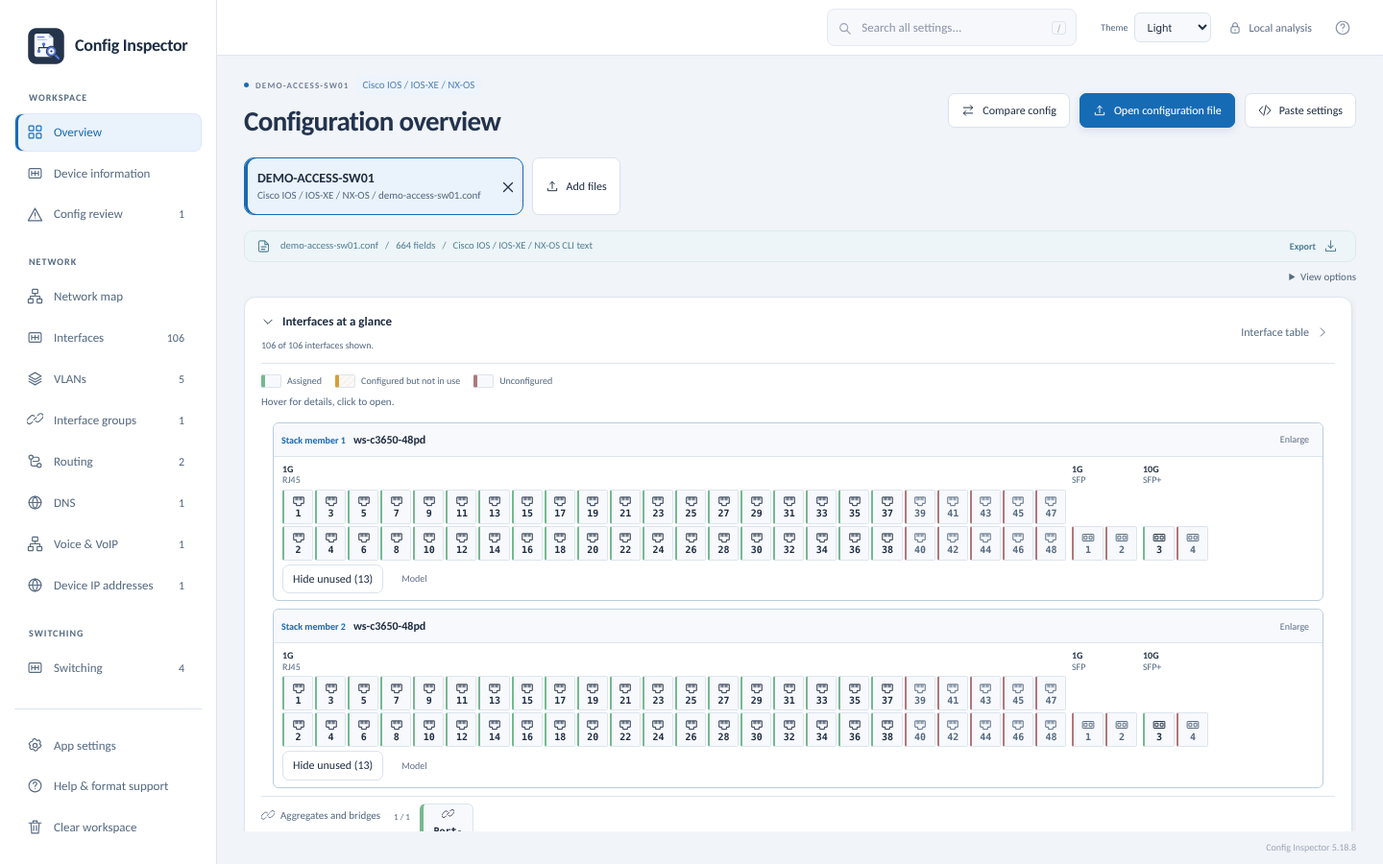
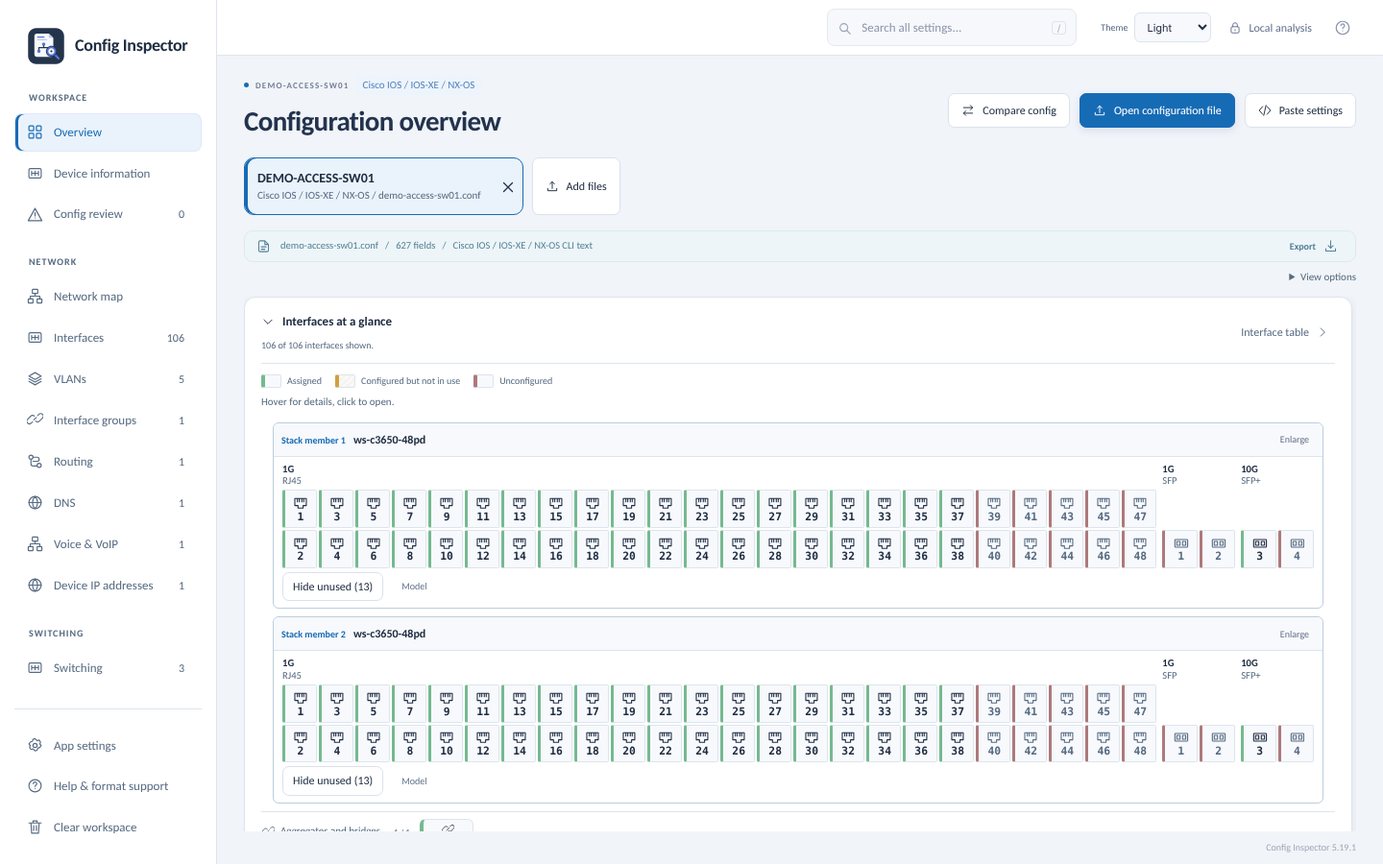
Release 5.19.1: interfaces at a glance fill their card (#5)
Port columns grow up to 56px so faceplates fill the card width; text, icons and heights scale with them. Small devices cap at 56px, narrow windows keep the compact fit, and Enlarge keeps its 34px minimum. Recaptured the README screenshot and recorded the owner's standing merge-and-release instruction in AGENTS.md.

Claude-Session: https://claude.ai/code/session_01AkZzWEYiyfNXNUuxhn3mpE

Changed region(s): [[0.1875, 0.5289, 0.9688, 0.9644]]

diff --git a/webview/index.html b/webview/index.html
@@ -807,10 +807,10 @@ body{font-size:14px}.brand-mark{background:linear-gradient(145deg,#287dc6,#15578
 .interface-glance .interface-badge .port-media-label{font-size:10px}
 .interface-glance .glance-port-name{display:block;width:100%;font-size:10px;font-weight:600;line-height:1.25;text-align:center;overflow-wrap:anywhere}
 </style>
-<style>.map-device-context .device-name{font-size:15px;font-weight:700;overflow-wrap:anywhere}.map-device-context .device-meta{display:flex;flex-direction:column;gap:1px;margin-top:7px;line-height:1.4;overflow-wrap:anywhere}.map-device-context .device-meta strong{font-size:11px;color:var(--ink);font-weight:600}.map-identity-label{font-size:9px;color:var(--muted)}.hardware-chassis{margin:8px 12px;border:1px solid var(--line-strong);border-radius:6px;background:var(--paper);min-width:0}.hardware-chassis-head{display:flex;align-items:center;justify-content:space-between;gap:10px;padding:5px 8px;background:var(--surface-soft);border-bottom:1px solid var(--line);border-radius:6px 6px 0 0}.hardware-chassis-head>div:first-child{display:flex;align-items:baseline;flex-wrap:wrap;gap:8px;min-width:0}.hardware-unit-label{font-size:10px;color:var(--accent);font-weight:600}.hardware-chassis-head h3{font-size:12px;margin:0;color:var(--ink);overflow-wrap:anywhere}.hardware-chassis-actions{display:flex;align-items:center;gap:8px;flex-shrink:0}.hardware-chassis-actions>span{font-size:10px;color:var(--muted)}.hardware-chassis-actions .quiet-button{font-size:10px;padding:3px 6px;min-height:24px}.hardware-chassis-modules{padding:7px 9px}.hardware-chassis-modules.has-module-slots{display:grid;grid-template-columns:repeat(2,minmax(0,1fr));gap:8px}.hardware-module{min-width:0}.has-module-slots .hardware-module,.hardware-rear-modules>.hardware-module{border:1px solid var(--line);border-radius:4px;padding:6px}.hardware-module-head{display:flex;justify-content:space-between;align-items:center;gap:6px;margin-bottom:5px}.hardware-module-head>div{display:flex;align-items:baseline;flex-wrap:wrap;gap:6px;min-width:0}.hardware-module-head strong{font-size:11px}.hardware-module-head span{font-size:10px;color:var(--muted);overflow-wrap:anywhere}.hardware-module-head .quiet-button{font-size:10px;padding:2px 5px;min-height:24px}.hardware-side-label{display:block;font-size:9px;text-transform:uppercase;letter-spacing:.4px;color:var(--muted);margin:2px 0 4px}.hardware-face-scroll{container-type:inline-size;max-width:100%;min-width:0}.hardware-face{display:grid;grid-auto-flow:column;grid-template-rows:auto auto;column-gap:6px;row-gap:0;width:100%;max-width:var(--face-natural-width);min-width:0;padding:0;--port-track:min(34px,calc((100cqw - var(--face-gap-space))/var(--face-columns)));--port-text:clamp(6px,calc(var(--port-track)*.34),10px);--port-icon:clamp(6px,calc(var(--port-track)*.46),14px);--port-height:clamp(22px,calc(var(--port-track)*1.12),36px)}.hardware-bank{min-width:0;display:grid;grid-template-rows:subgrid;grid-row:span 2}.hardware-bank-label{font-size:clamp(6px,calc(var(--port-track)*.3),10px);font-weight:600;display:block;min-height:24px;line-height:1.15;color:var(--ink);margin-bottom:3px;overflow-wrap:anywhere}.hardware-bank-label small{display:block;font-size:inherit;font-weight:400;color:var(--muted)}.hardware-bank-grid{display:grid;gap:2px;align-items:stretch}.hardware-port-cell{display:block;position:relative;min-width:0}.interface-glance .hardware-port-cell .interface-badge{width:100%;min-width:0;height:var(--port-height);min-height:0;border-left-width:clamp(1px,calc(var(--port-track)*.08),3px);padding:2px 0;gap:1px;margin:0;display:flex;flex-direction:column;justify-content:center;border-radius:2px}.hardware-port-cell .interface-badge .interface-kind-icon{margin:0;gap:0;min-width:0;min-height:0;line-height:1}.hardware-port-cell .interface-kind-icon .icon{width:var(--port-icon);height:var(--port-icon)}.hardware-port-cell .port-media-label{display:none}.hardware-port-cell .glance-port-name{font-size:var(--port-text);line-height:1;white-space:nowrap}.hardware-port-gap{height:var(--port-height);display:block;min-width:0}.interface-glance .hardware-stack-port .interface-badge{border:2px solid var(--accent);background:var(--accent-soft);gap:0}.hardware-stack-port .interface-kind-icon .icon{height:calc(var(--port-icon)*.8)}.hardware-stack-label{font-size:clamp(3px,calc(var(--port-track)*.25),8px);line-height:1;color:var(--accent);font-weight:600}.hardware-module-foot{display:flex;align-items:center;gap:7px;flex-wrap:wrap;margin-top:4px}.hardware-module-foot:empty{display:none}.hardware-module-foot .quiet-button{font-size:10px;min-height:23px;padding:2px 5px}.hardware-module-foot .unused-count{font-size:9px}.hardware-empty{font-size:11px;color:var(--muted);padding:4px 0;margin:0}.hardware-other-ports{margin-top:4px}.hardware-other-ports .interface-glance-badges{padding:0}.hardware-management{border-top:1px solid var(--line);padding:6px 9px}.hardware-management h4{font-size:10px;margin:0 0 4px}.hardware-side+.hardware-side{border-top:1px dashed var(--line);margin-top:5px;padding-top:4px}.hardware-rear-modules{display:flex;align-items:stretch;gap:7px;border-top:1px solid var(--line);padding:6px 9px}.hardware-rear-modules>.hardware-module{flex:0 1 190px;min-width:0}.hardware-rear-modules .hardware-bank-label{font-size:9px;min-height:22px}.hardware-stacking-summary{display:flex;flex-direction:column;justify-content:center;gap:4px;font-size:10px;color:var(--muted);padding:5px 8px}.hardware-stacking-summary strong{color:var(--accent);font-size:11px}.hardware-layout-note{font-size:10px;color:var(--muted);margin:5px 0 0;line-height:1.4}.hardware-chassis.is-enlarged .hardware-face-scroll{overflow:auto}.hardware-chassis.is-enlarged .hardware-face{min-width:var(--face-natural-width);--port-track:34px}.interface-stack-tag{font-size:9px;color:var(--accent);border:1px solid var(--accent);border-radius:3px;padding:1px 4px;white-space:nowrap;line-height:1.3}@media(max-width:1100px){.hardware-chassis-modules.has-module-slots{grid-template-columns:1fr}}@media(max-width:600px){.hardware-chassis{margin:7px 6px}.hardware-chassis-head{padding:6px}.hardware-chassis-modules{padding:6px}.hardware-rear-modules{padding:5px;flex-wrap:wrap}.hardware-rear-modules>.hardware-module{flex:1 1 110px}.hardware-chassis-actions>span{display:none}.hardware-bank-label{min-height:26px}.hardware-stacking-summary{flex-basis:100%}}
+<style>.map-device-context .device-name{font-size:15px;font-weight:700;overflow-wrap:anywhere}.map-device-context .device-meta{display:flex;flex-direction:column;gap:1px;margin-top:7px;line-height:1.4;overflow-wrap:anywhere}.map-device-context .device-meta strong{font-size:11px;color:var(--ink);font-weight:600}.map-identity-label{font-size:9px;color:var(--muted)}.hardware-chassis{margin:8px 12px;border:1px solid var(--line-strong);border-radius:6px;background:var(--paper);min-width:0}.hardware-chassis-head{display:flex;align-items:center;justify-content:space-between;gap:10px;padding:5px 8px;background:var(--surface-soft);border-bottom:1px solid var(--line);border-radius:6px 6px 0 0}.hardware-chassis-head>div:first-child{display:flex;align-items:baseline;flex-wrap:wrap;gap:8px;min-width:0}.hardware-unit-label{font-size:10px;color:var(--accent);font-weight:600}.hardware-chassis-head h3{font-size:12px;margin:0;color:var(--ink);overflow-wrap:anywhere}.hardware-chassis-actions{display:flex;align-items:center;gap:8px;flex-shrink:0}.hardware-chassis-actions>span{font-size:10px;color:var(--muted)}.hardware-chassis-actions .quiet-button{font-size:10px;padding:3px 6px;min-height:24px}.hardware-chassis-modules{padding:7px 9px}.hardware-chassis-modules.has-module-slots{display:grid;grid-template-columns:repeat(2,minmax(0,1fr));gap:8px}.hardware-module{min-width:0}.has-module-slots .hardware-module,.hardware-rear-modules>.hardware-module{border:1px solid var(--line);border-radius:4px;padding:6px}.hardware-module-head{display:flex;justify-content:space-between;align-items:center;gap:6px;margin-bottom:5px}.hardware-module-head>div{display:flex;align-items:baseline;flex-wrap:wrap;gap:6px;min-width:0}.hardware-module-head strong{font-size:11px}.hardware-module-head span{font-size:10px;color:var(--muted);overflow-wrap:anywhere}.hardware-module-head .quiet-button{font-size:10px;padding:2px 5px;min-height:24px}.hardware-side-label{display:block;font-size:9px;text-transform:uppercase;letter-spacing:.4px;color:var(--muted);margin:2px 0 4px}.hardware-face-scroll{container-type:inline-size;max-width:100%;min-width:0}.hardware-face{display:grid;grid-auto-flow:column;grid-template-rows:auto auto;column-gap:6px;row-gap:0;width:100%;max-width:calc(var(--face-columns)*56px + var(--face-gap-space));min-width:0;padding:0;--port-fit:calc((100cqw - var(--face-gap-space))/var(--face-columns));--port-track:min(56px,var(--port-fit));--port-text:clamp(6px,calc(var(--port-track)*.3),13px);--port-icon:clamp(6px,calc(var(--port-track)*.42),20px);--port-height:clamp(22px,calc(var(--port-track)*1.05),54px)}.hardware-bank{min-width:0;display:grid;grid-template-rows:subgrid;grid-row:span 2}.hardware-bank-label{font-size:clamp(6px,calc(var(--port-track)*.28),12px);font-weight:600;display:block;min-height:24px;line-height:1.15;color:var(--ink);margin-bottom:3px;overflow-wrap:anywhere}.hardware-bank-label small{display:block;font-size:inherit;font-weight:400;color:var(--muted)}.hardware-bank-grid{display:grid;gap:2px;align-items:stretch}.hardware-port-cell{display:block;position:relative;min-width:0}.interface-glance .hardware-port-cell .interface-badge{width:100%;min-width:0;height:var(--port-height);min-height:0;border-left-width:clamp(1px,calc(var(--port-track)*.08),3px);padding:2px 0;gap:1px;margin:0;display:flex;flex-direction:column;justify-content:center;border-radius:2px}.hardware-port-cell .interface-badge .interface-kind-icon{margin:0;gap:0;min-width:0;min-height:0;line-height:1}.hardware-port-cell .interface-kind-icon .icon{width:var(--port-icon);height:var(--port-icon)}.hardware-port-cell .port-media-label{display:none}.hardware-port-cell .glance-port-name{font-size:var(--port-text);line-height:1;white-space:nowrap}.hardware-port-gap{height:var(--port-height);display:block;min-width:0}.interface-glance .hardware-stack-port .interface-badge{border:2px solid var(--accent);background:var(--accent-soft);gap:0}.hardware-stack-port .interface-kind-icon .icon{height:calc(var(--port-icon)*.8)}.hardware-stack-label{font-size:clamp(3px,calc(var(--port-track)*.22),10px);line-height:1;color:var(--accent);font-weight:600}.hardware-module-foot{display:flex;align-items:center;gap:7px;flex-wrap:wrap;margin-top:4px}.hardware-module-foot:empty{display:none}.hardware-module-foot .quiet-button{font-size:10px;min-height:23px;padding:2px 5px}.hardware-module-foot .unused-count{font-size:9px}.hardware-empty{font-size:11px;color:var(--muted);padding:4px 0;margin:0}.hardware-other-ports{margin-top:4px}.hardware-other-ports .interface-glance-badges{padding:0}.hardware-management{border-top:1px solid var(--line);padding:6px 9px}.hardware-management h4{font-size:10px;margin:0 0 4px}.hardware-side+.hardware-side{border-top:1px dashed var(--line);margin-top:5px;padding-top:4px}.hardware-rear-modules{display:flex;align-items:stretch;gap:7px;border-top:1px solid var(--line);padding:6px 9px}.hardware-rear-modules>.hardware-module{flex:0 1 190px;min-width:0}.hardware-rear-modules .hardware-bank-label{font-size:9px;min-height:22px}.hardware-stacking-summary{display:flex;flex-direction:column;justify-content:center;gap:4px;font-size:10px;color:var(--muted);padding:5px 8px}.hardware-stacking-summary strong{color:var(--accent);font-size:11px}.hardware-layout-note{font-size:10px;color:var(--muted);margin:5px 0 0;line-height:1.4}.hardware-chassis.is-enlarged .hardware-face-scroll{overflow:auto}.hardware-chassis.is-enlarged .hardware-face{min-width:var(--face-natural-width);--port-track:max(34px,min(56px,var(--port-fit)))}.interface-stack-tag{font-size:9px;color:var(--accent);border:1px solid var(--accent);border-radius:3px;padding:1px 4px;white-space:nowrap;line-height:1.3}@media(max-width:1100px){.hardware-chassis-modules.has-module-slots{grid-template-columns:1fr}}@media(max-width:600px){.hardware-chassis{margin:7px 6px}.hardware-chassis-head{padding:6px}.hardware-chassis-modules{padding:6px}.hardware-rear-modules{padding:5px;flex-wrap:wrap}.hardware-rear-modules>.hardware-module{flex:1 1 110px}.hardware-chassis-actions>span{display:none}.hardware-bank-label{min-height:26px}.hardware-stacking-summary{flex-basis:100%}}
 </style>
 <style>.filter-category-panel{margin:18px 0}.filter-category-counts{display:flex;flex-wrap:wrap;gap:6px 12px;font-size:11px;color:var(--muted);margin:8px 0}.filter-category-counts strong{color:var(--ink);margin-left:3px}.filter-category-search{display:flex;flex-direction:column;gap:5px;font-size:11px;color:var(--muted);margin:12px 0}.filter-category-search input{width:100%;box-sizing:border-box;border:1px solid var(--line-strong);border-radius:4px;background:var(--paper);color:var(--ink);padding:9px 10px;font:inherit}.filter-category-table{width:100%;table-layout:fixed;border-collapse:collapse;font-size:11px;margin:8px 0}.filter-category-table th,.filter-category-table td{text-align:left;vertical-align:top;overflow-wrap:anywhere;padding:8px;border-bottom:1px solid var(--line)}.filter-category-table th{font-size:10px;color:var(--muted);font-weight:600;background:var(--surface-soft)}.filter-category-table th:first-child{width:44%}.filter-category-table td>div+div{margin-top:4px}.filter-category-id{display:block;font-size:9px;color:var(--muted);margin-top:4px}.filter-category-action{font-weight:600}.filter-category-action.restricted{color:var(--red)}.filter-category-action.permitted{color:var(--green)}.filter-category-panel [hidden]{display:none!important}.filter-category-allowed .technical-body{padding:0}.filter-category-table .table-link{text-align:left;white-space:normal}</style>
-<style id="mikrotik-port-labels">.hardware-inventory[data-hardware-vendor="mikrotik"] .port-media-label{display:inline;font-size:clamp(5px,calc(var(--port-track)*.23),8px);line-height:1}.hardware-inventory[data-hardware-vendor="mikrotik"] .interface-kind-icon{flex-direction:row;gap:2px}.hardware-inventory[data-hardware-vendor="mikrotik"] .glance-port-name{font-size:clamp(6px,calc(var(--port-track)*.3),10px)}</style>
+<style id="mikrotik-port-labels">.hardware-inventory[data-hardware-vendor="mikrotik"] .port-media-label{display:inline;font-size:clamp(5px,calc(var(--port-track)*.2),10px);line-height:1}.hardware-inventory[data-hardware-vendor="mikrotik"] .interface-kind-icon{flex-direction:row;gap:2px}.hardware-inventory[data-hardware-vendor="mikrotik"] .glance-port-name{font-size:clamp(6px,calc(var(--port-track)*.27),12px)}</style>
 <style id="configuration-review-styles">
 .review-summary{margin-bottom:14px}.review-summary-body{padding:0 18px 14px}.review-metrics{display:grid;grid-template-columns:repeat(4,minmax(0,1fr));gap:12px}.review-metrics>div{padding:12px;border:1px solid var(--line);border-radius:8px;background:var(--surface-soft)}.review-metrics strong{display:block;font-size:23px;line-height:1.3;color:var(--ink)}.review-metrics span{display:block;margin-top:5px;font-size:11px;color:var(--muted)}.review-summary .panel-head{flex-wrap:wrap;gap:12px}.review-summary .support-note{margin:12px 0 0}.findings-toolbar{align-items:end;margin:0 0 14px}.findings-toolbar .count-label{margin-left:0;white-space:normal}.finding-resolution{border:1px solid var(--line);border-left:3px solid var(--accent);border-radius:7px;padding:12px 16px;background:var(--surface-soft);margin:14px 0}.finding-resolution h3,.finding-targets h3{margin:0 0 8px;font-size:12px}.finding-resolution ol{margin:0;padding-left:21px;font-size:12px;line-height:1.7}.finding-resolution li+li{margin-top:6px}.finding-impact{font-size:12px}.finding-targets{margin:16px 0}.finding-targets .detail-actions{margin:0}.finding-targets button{white-space:normal;overflow-wrap:anywhere;text-align:left}.finding-locations{margin-top:10px;font-size:11px;color:var(--muted)}.finding-locations summary{cursor:pointer}.finding-locations li{overflow-wrap:anywhere;margin:5px 0}.finding-source-values{margin-top:10px}.finding-source-values dl{margin:10px 0}.finding-source-values dl>div{padding:8px 10px;border:1px solid var(--line);margin:6px 0;border-radius:6px}.finding-source-values dt{font-size:10px;color:var(--muted);overflow-wrap:anywhere}.finding-source-values dd{margin:5px 0 0;font-size:11px;white-space:pre-wrap;overflow-wrap:anywhere}.review-references{padding-left:20px}.review-references small,.findings-coverage td>small{display:block;color:var(--muted);font-size:10px;margin-top:4px}.review-references a{overflow-wrap:anywhere}.findings-coverage td{vertical-align:top}.findings-coverage table th{position:sticky;top:0;background:var(--surface);z-index:1}.review-export-options{display:flex;gap:10px;flex-wrap:wrap}.review-export-options .button{white-space:normal;text-align:left}.finding-detail .panel-head>div{min-width:0}.finding-detail .panel-title{overflow-wrap:anywhere}.findings-toolbar .select{max-width:100%}
 @media(max-width:980px){.review-metrics{grid-template-columns:repeat(2,minmax(0,1fr))}}@media(max-width:520px){.review-summary-body{padding:0 12px 12px}.review-metrics{gap:8px}.review-metrics>div{padding:9px}.review-metrics strong{font-size:19px}.findings-filter{max-width:100%}.finding-body{padding:0 12px 12px}.finding-resolution{padding:10px 12px}.findings-coverage .technical-body{overflow:auto}}
@@ -834,7 +834,7 @@ body{font-size:14px}.brand-mark{background:linear-gradient(145deg,#287dc6,#15578
       <div id="page-heading"></div>
       <div id="workspace-tabs"></div><div id="workspace-notice"></div>
       <div id="content"></div>
-      <footer class="page-footer"><span id="version-label">Config Inspector 5.19.0</span></footer>
+      <footer class="page-footer"><span id="version-label">Config Inspector 5.19.1</span></footer>
     </main>
   </div>
   <input type="file" id="import-file" multiple accept=".exp,.txt,.json,.conf,.cfg,.xml,.tar,.set,.log,.backup,.rsc" hidden>
@@ -5245,7 +5245,7 @@ function pJ(L,pan){const d=E(),I={},R={},T={};
     return {compareText:compareText,compareMode:['records','text','fields'].includes(data.compareMode)?data.compareMode:'records',models:models.slice(0,data.count),model:data.selected<0?null:models[data.selected],comparison:data.comparison<0?null:models[data.comparison],view:typeof data.view==='string'?data.view:'overview',scope:typeof data.scope==='string'?data.scope:'',categoryTabs:data.categoryTabs&&typeof data.categoryTabs==='object'&&!Array.isArray(data.categoryTabs)?data.categoryTabs:{},showUnassigned:!!data.showUnassigned,showEmpty:!!data.showEmpty};
   }
   function create(options){
-    options=options||{};var bridge=options.bridge||root.chrome&&root.chrome.webview,native=!!(bridge&&typeof bridge.postMessage==='function'&&typeof bridge.addEventListener==='function'),state={current:'5.19.0',state:'idle',message:'',automatic:true,busy:false,ready:false,available:false},handlers={},restoring=false,installing=false;
+    options=options||{};var bridge=options.bridge||root.chrome&&root.chrome.webview,native=!!(bridge&&typeof bridge.postMessage==='function'&&typeof bridge.addEventListener==='function'),state={current:'5.19.1',state:'idle',message:'',automatic:true,busy:false,ready:false,available:false},handlers={},restoring=false,installing=false;
     var commands=['update-ui-ready','update-status','update-check','update-download','update-later','update-auto-on','update-auto-off','update-restored','update-restore-failed'];
     function request(command){if(!native)throw new Error('Built-in updates are available in the Windows desktop edition.');if(!commands.includes(command))throw new Error('Unknown update action.');bridge.postMessage(command);}
     if(native)bridge.addEventListener('message',async function(event){
@@ -7618,7 +7618,7 @@ function pJ(L,pan){const d=E(),I={},R={},T={};
     }
   }
   function showHelp(){
-    openModal(modalHeader('About Config Inspector','Firewall and switch configuration explorer / version 5.19.0')+
+    openModal(modalHeader('About Config Inspector','Firewall and switch configuration explorer / version 5.19.1')+
       '<div class="modal-body"><div class="help-section"><h3>Open and explore</h3><p>Import SonicWall EXP, FortiGate FortiOS text, Palo Alto configuration XML, Sophos Firewall XML or export TAR, Aruba AOS or AOS-CX text, Cisco IOS or NX-OS text, Juniper Junos text or XML, Meraki API JSON, or a JSON snapshot exported by this application. The device type is detected automatically. You can also drop a file anywhere in the window. Select an interface or record for a plain-language explanation and key facts. Related objects show their IP addresses or service ports. Advanced details contains all original fields. Use Copy summary for readable facts and Back to return from a related item.</p></div>'+
       '<div class="help-section"><h3>Configuration sections</h3><p>Choose a root section in the sidebar, then select one of its indented subsections. Each subsection opens its own page. Routes, objects, members and other primary definitions appear before related settings. Security pages are grouped by function, including web, applications, files, intrusion prevention and SSL/TLS inspection. Certificate objects remain under Certificates. Empty subsections are hidden by default. Use View options to show empty sections, or Configuration sections and All original fields to inspect untranslated settings. Configuration context, search and table filters apply to the selected view.</p></div>'+
       '<div class="help-section"><h3>Choose access rule zones</h3><p>In Access Rules, choose From zone and To zone independently. All zones leaves that side unrestricted. Swap reverses the direction. Clear zone filters removes the pair while keeping the table filters. Search, configured state, and IP version filters combine with the pair, and CSV includes all matching rules. A matrix cell selects its zone pair. Interface and zone details offer outgoing and incoming rules.</p></div>'+

diff --git a/webview/updates.js b/webview/updates.js
@@ -27,7 +27,7 @@
     return {compareText:compareText,compareMode:['records','text','fields'].includes(data.compareMode)?data.compareMode:'records',models:models.slice(0,data.count),model:data.selected<0?null:models[data.selected],comparison:data.comparison<0?null:models[data.comparison],view:typeof data.view==='string'?data.view:'overview',scope:typeof data.scope==='string'?data.scope:'',categoryTabs:data.categoryTabs&&typeof data.categoryTabs==='object'&&!Array.isArray(data.categoryTabs)?data.categoryTabs:{},showUnassigned:!!data.showUnassigned,showEmpty:!!data.showEmpty};
   }
   function create(options){
-    options=options||{};var bridge=options.bridge||root.chrome&&root.chrome.webview,native=!!(bridge&&typeof bridge.postMessage==='function'&&typeof bridge.addEventListener==='function'),state={current:'5.19.0',state:'idle',message:'',automatic:true,busy:false,ready:false,available:false},handlers={},restoring=false,installing=false;
+    options=options||{};var bridge=options.bridge||root.chrome&&root.chrome.webview,native=!!(bridge&&typeof bridge.postMessage==='function'&&typeof bridge.addEventListener==='function'),state={current:'5.19.1',state:'idle',message:'',automatic:true,busy:false,ready:false,available:false},handlers={},restoring=false,installing=false;
     var commands=['update-ui-ready','update-status','update-check','update-download','update-later','update-auto-on','update-auto-off','update-restored','update-restore-failed'];
     function request(command){if(!native)throw new Error('Built-in updates are available in the Windows desktop edition.');if(!commands.includes(command))throw new Error('Unknown update action.');bridge.postMessage(command);}
     if(native)bridge.addEventListener('message',async function(event){

diff --git a/webview/app.cpp b/webview/app.cpp
@@ -99,11 +99,11 @@ void ready(ICoreWebView2Controller* c){controller=c;c->AddRef();c->get_CoreWebVi
  auto message=new Callback<ICoreWebView2WebMessageReceivedEventHandler,ICoreWebView2*,ICoreWebView2WebMessageReceivedEventArgs*>([](auto,auto args){LPWSTR source=nullptr,command=nullptr;args->get_Source(&source);bool trusted=source&&wcscmp(source,appURL)==0;CoTaskMemFree(source);if(trusted&&SUCCEEDED(args->TryGetWebMessageAsString(&command))&&command){if(!wcsncmp(command,L"update-",7)){auto pending=new std::wstring(command);if(!PostMessageW(windowHandle,WM_APP+4,0,(LPARAM)pending))delete pending;CoTaskMemFree(command);return S_OK;}for(WPARAM code=1;code<=4;code++)if(wcscmp(command,storageCommands[code])==0){if(!PostMessageW(windowHandle,WM_APP+2,code,0)){appStorage.notice=L"The storage action could not be started.";storageReply(command,false);}break;}}CoTaskMemFree(command);return S_OK;});web->add_WebMessageReceived(message,&token);message->Release();
  web->Navigate(appURL);
 }
-int WINAPI wWinMain(HINSTANCE instance,HINSTANCE,PWSTR,int){int argc=0;LPWSTR* argv=CommandLineToArgvW(GetCommandLineW(),&argc);try{if(argc>1&&wcscmp(argv[1],L"--apply-update")==0){ci_update::require(argc==4,"Invalid update helper request.");int result=ci_update::apply(ci_update::full(argv[2]),ci_update::utf8(argv[3]));LocalFree(argv);return result;}if(argc>1&&(wcscmp(argv[1],L"--update-resume")==0||wcscmp(argv[1],L"--update-rollback")==0)){ci_update::require(argc==4,"Invalid update restart request.");updateRollback=wcscmp(argv[1],L"--update-rollback")==0;auto plan=ci_update::readPlan(ci_update::full(argv[2]),ci_update::utf8(argv[3]));ci_update::require(ci_update::same(ci_update::exePath(),plan.target)&&ci_update::hashFile(plan.target)==(updateRollback?plan.oldHash:plan.newHash),"The update restart target failed verification.");updateResume=std::make_unique<ci_update::Plan>(plan);}}catch(const std::exception& e){LocalFree(argv);MessageBoxW(nullptr,ci_update::wide(e.what()).c_str(),L"Config Inspector update",MB_OK|MB_ICONERROR);return 1;}LocalFree(argv);SetProcessDpiAwarenessContext(DPI_AWARENESS_CONTEXT_PER_MONITOR_AWARE_V2);CoInitializeEx(nullptr,COINIT_APARTMENTTHREADED);if(!appStorage.initialize()){MessageBoxW(nullptr,L"Unable to create an app data folder outside the executable folder.",L"Config Inspector",MB_OK|MB_ICONERROR);return 1;}dataDir=appStorage.current;try{updater=std::make_unique<ci_update::Updater>(dataDir,postUpdate);}catch(const std::exception& e){updateUnavailable=ci_update::wide(e.what());}std::wstring hostDir=dataDir+L"\\Host-5.19.0";CreateDirectoryW(hostDir.c_str(),nullptr);
+int WINAPI wWinMain(HINSTANCE instance,HINSTANCE,PWSTR,int){int argc=0;LPWSTR* argv=CommandLineToArgvW(GetCommandLineW(),&argc);try{if(argc>1&&wcscmp(argv[1],L"--apply-update")==0){ci_update::require(argc==4,"Invalid update helper request.");int result=ci_update::apply(ci_update::full(argv[2]),ci_update::utf8(argv[3]));LocalFree(argv);return result;}if(argc>1&&(wcscmp(argv[1],L"--update-resume")==0||wcscmp(argv[1],L"--update-rollback")==0)){ci_update::require(argc==4,"Invalid update restart request.");updateRollback=wcscmp(argv[1],L"--update-rollback")==0;auto plan=ci_update::readPlan(ci_update::full(argv[2]),ci_update::utf8(argv[3]));ci_update::require(ci_update::same(ci_update::exePath(),plan.target)&&ci_update::hashFile(plan.target)==(updateRollback?plan.oldHash:plan.newHash),"The update restart target failed verification.");updateResume=std::make_unique<ci_update::Plan>(plan);}}catch(const std::exception& e){LocalFree(argv);MessageBoxW(nullptr,ci_update::wide(e.what()).c_str(),L"Config Inspector update",MB_OK|MB_ICONERROR);return 1;}LocalFree(argv);SetProcessDpiAwarenessContext(DPI_AWARENESS_CONTEXT_PER_MONITOR_AWARE_V2);CoInitializeEx(nullptr,COINIT_APARTMENTTHREADED);if(!appStorage.initialize()){MessageBoxW(nullptr,L"Unable to create an app data folder outside the executable folder.",L"Config Inspector",MB_OK|MB_ICONERROR);return 1;}dataDir=appStorage.current;try{updater=std::make_unique<ci_update::Updater>(dataDir,postUpdate);}catch(const std::exception& e){updateUnavailable=ci_update::wide(e.what());}std::wstring hostDir=dataDir+L"\\Host-5.19.1";CreateDirectoryW(hostDir.c_str(),nullptr);
  std::wstring dll=hostDir+L"\\WebView2Loader.dll";HRSRC resource=FindResourceW(instance,MAKEINTRESOURCEW(102),RT_RCDATA);DWORD size=SizeofResource(instance,resource);const void* bytes=LockResource(LoadResource(instance,resource));HANDLE file=CreateFileW(dll.c_str(),GENERIC_WRITE,FILE_SHARE_READ,nullptr,CREATE_ALWAYS,FILE_ATTRIBUTE_NORMAL,nullptr);if(file!=INVALID_HANDLE_VALUE){DWORD written=0;bool ok=WriteFile(file,bytes,size,&written,nullptr)&&written==size;CloseHandle(file);if(!ok)return 1;}
  HMODULE loader=LoadLibraryExW(dll.c_str(),nullptr,LOAD_LIBRARY_SEARCH_DLL_LOAD_DIR|LOAD_LIBRARY_SEARCH_SYSTEM32);if(!loader){MessageBoxW(nullptr,L"Unable to load the application host.",L"Config Inspector",MB_OK|MB_ICONERROR);return 1;}
  using CreateEnvironment=HRESULT(STDAPICALLTYPE*)(PCWSTR,PCWSTR,ICoreWebView2EnvironmentOptions*,ICoreWebView2CreateCoreWebView2EnvironmentCompletedHandler*);auto create=(CreateEnvironment)GetProcAddress(loader,"CreateCoreWebView2EnvironmentWithOptions");if(!create)return 1;
- WNDCLASSW wc={};wc.hInstance=instance;wc.lpszClassName=L"ConfigInspectorWebView";wc.lpfnWndProc=proc;wc.hIcon=LoadIconW(instance,MAKEINTRESOURCEW(1));wc.hCursor=LoadCursor(nullptr,IDC_ARROW);wc.hbrBackground=(HBRUSH)(COLOR_WINDOW+1);RegisterClassW(&wc);HMENU menu=CreateMenu(),fileMenu=CreatePopupMenu(),helpMenu=CreatePopupMenu(),viewMenu=CreatePopupMenu();AppendMenuW(fileMenu,MF_STRING,1,L"Open configuration file...");AppendMenuW(fileMenu,MF_STRING,10,L"Paste settings...");AppendMenuW(fileMenu,MF_STRING,2,L"Export...");AppendMenuW(fileMenu,MF_SEPARATOR,0,nullptr);AppendMenuW(fileMenu,MF_STRING,9,L"App settings...");AppendMenuW(fileMenu,MF_SEPARATOR,0,nullptr);AppendMenuW(fileMenu,MF_STRING,3,L"Exit");AppendMenuW(helpMenu,MF_STRING,4,L"Format support");AppendMenuW(helpMenu,MF_STRING,11,L"Check for updates...");AppendMenuW(menu,MF_POPUP,(UINT_PTR)fileMenu,L"File");AppendMenuW(viewMenu,MF_STRING,6,L"Zoom in");AppendMenuW(viewMenu,MF_STRING,7,L"Zoom out");AppendMenuW(viewMenu,MF_STRING,8,L"Reset zoom");AppendMenuW(viewMenu,MF_STRING,5,L"Full screen\tF11");AppendMenuW(menu,MF_POPUP,(UINT_PTR)viewMenu,L"View");AppendMenuW(menu,MF_POPUP,(UINT_PTR)helpMenu,L"Help");windowHandle=CreateWindowW(wc.lpszClassName,L"Config Inspector 5.19.0",WS_OVERLAPPEDWINDOW,CW_USEDEFAULT,CW_USEDEFAULT,1440,960,nullptr,menu,instance,nullptr);
+ WNDCLASSW wc={};wc.hInstance=instance;wc.lpszClassName=L"ConfigInspectorWebView";wc.lpfnWndProc=proc;wc.hIcon=LoadIconW(instance,MAKEINTRESOURCEW(1));wc.hCursor=LoadCursor(nullptr,IDC_ARROW);wc.hbrBackground=(HBRUSH)(COLOR_WINDOW+1);RegisterClassW(&wc);HMENU menu=CreateMenu(),fileMenu=CreatePopupMenu(),helpMenu=CreatePopupMenu(),viewMenu=CreatePopupMenu();AppendMenuW(fileMenu,MF_STRING,1,L"Open configuration file...");AppendMenuW(fileMenu,MF_STRING,10,L"Paste settings...");AppendMenuW(fileMenu,MF_STRING,2,L"Export...");AppendMenuW(fileMenu,MF_SEPARATOR,0,nullptr);AppendMenuW(fileMenu,MF_STRING,9,L"App settings...");AppendMenuW(fileMenu,MF_SEPARATOR,0,nullptr);AppendMenuW(fileMenu,MF_STRING,3,L"Exit");AppendMenuW(helpMenu,MF_STRING,4,L"Format support");AppendMenuW(helpMenu,MF_STRING,11,L"Check for updates...");AppendMenuW(menu,MF_POPUP,(UINT_PTR)fileMenu,L"File");AppendMenuW(viewMenu,MF_STRING,6,L"Zoom in");AppendMenuW(viewMenu,MF_STRING,7,L"Zoom out");AppendMenuW(viewMenu,MF_STRING,8,L"Reset zoom");AppendMenuW(viewMenu,MF_STRING,5,L"Full screen\tF11");AppendMenuW(menu,MF_POPUP,(UINT_PTR)viewMenu,L"View");AppendMenuW(menu,MF_POPUP,(UINT_PTR)helpMenu,L"Help");windowHandle=CreateWindowW(wc.lpszClassName,L"Config Inspector 5.19.1",WS_OVERLAPPEDWINDOW,CW_USEDEFAULT,CW_USEDEFAULT,1440,960,nullptr,menu,instance,nullptr);
  // Pick the matching small/large resource frames instead of scaling one default icon.
  SendMessageW(windowHandle,WM_SETICON,ICON_BIG,(LPARAM)LoadImageW(instance,MAKEINTRESOURCEW(1),IMAGE_ICON,GetSystemMetrics(SM_CXICON),GetSystemMetrics(SM_CYICON),LR_SHARED));
  SendMessageW(windowHandle,WM_SETICON,ICON_SMALL,(LPARAM)LoadImageW(instance,MAKEINTRESOURCEW(1),IMAGE_ICON,GetSystemMetrics(SM_CXSMICON),GetSystemMetrics(SM_CYSMICON),LR_SHARED));

diff --git a/webview/version.h b/webview/version.h
@@ -1,4 +1,4 @@
 #pragma once
-#define CI_VERSION "5.19.0"
-#define CI_VERSION_W L"5.19.0"
-#define CI_VERSION_RESOURCE 5,19,0,0
+#define CI_VERSION "5.19.1"
+#define CI_VERSION_W L"5.19.1"
+#define CI_VERSION_RESOURCE 5,19,1,0

diff --git a/AGENTS.md b/AGENTS.md
@@ -14,7 +14,13 @@ existing CI checks before promotion. New root entries require an intentional rev
 of the allowlist and a reason in the change description; never relax it to a glob.
 Rebase older feature branches on current main and rerun checks after integration.
 Organization changes do not authorize version bumps, releases, tag/asset replacement
-or repository access changes. Preserve the polished README layout.
+or repository access changes.
+
+Owner's standing instruction (2026-11-04): the owner does not use GitHub directly.
+For user-visible changes, agents open the pull request, merge it once all checks
+are green, and release it (bump `VERSION`, add `docs/releases/VERSION.md`, merge to
+`main`) without asking, then verify the published assets. Never replace an
+existing release or its assets. Preserve the polished README layout.
 
 ## Gotchas
 

diff --git a/docs/DEVELOPMENT_HANDOFF.md b/docs/DEVELOPMENT_HANDOFF.md
@@ -1,5 +1,14 @@
 # Configuration Inspector development handoff
 
+## 5.19.1 — interfaces at a glance fill their card
+
+Port tiles grow up to 56px per column (was 34px) so faceplates fill the card
+width; text, icon and height scale with them. Enlarge keeps a 34px minimum and
+horizontal scrolling. `tests/cisco-3650-browser.cjs` checks fill at 1600px.
+`docs/images/interfaces-at-a-glance.png` was recaptured with a fictional stack.
+5.19.0 assets were downloaded and verified against GitHub digests,
+`SHA256SUMS` and the portable ZIP contents.
+
 ## 5.19.0 — updater rate limits, rename hints, Arista EOS / Huawei VRP
 
 Release explicitly authorized by the owner on 2026-11-04. Prepared on

diff --git a/docs/releases/5.19.1.md b/docs/releases/5.19.1.md
@@ -1,0 +1,6 @@
+# Config Inspector 5.19.1
+
+## Interfaces at a glance
+
+- Port layouts now grow to fill the width of their card. On wide windows each port tile, its icon and its number are larger and easier to read, instead of leaving empty space beside the switch.
+- Tiles stop growing at a comfortable maximum, so small devices with only a few ports do not turn into oversized blocks. Narrow windows keep the existing compact fit, and **Enlarge** still shows the full-size layout with horizontal scrolling.
